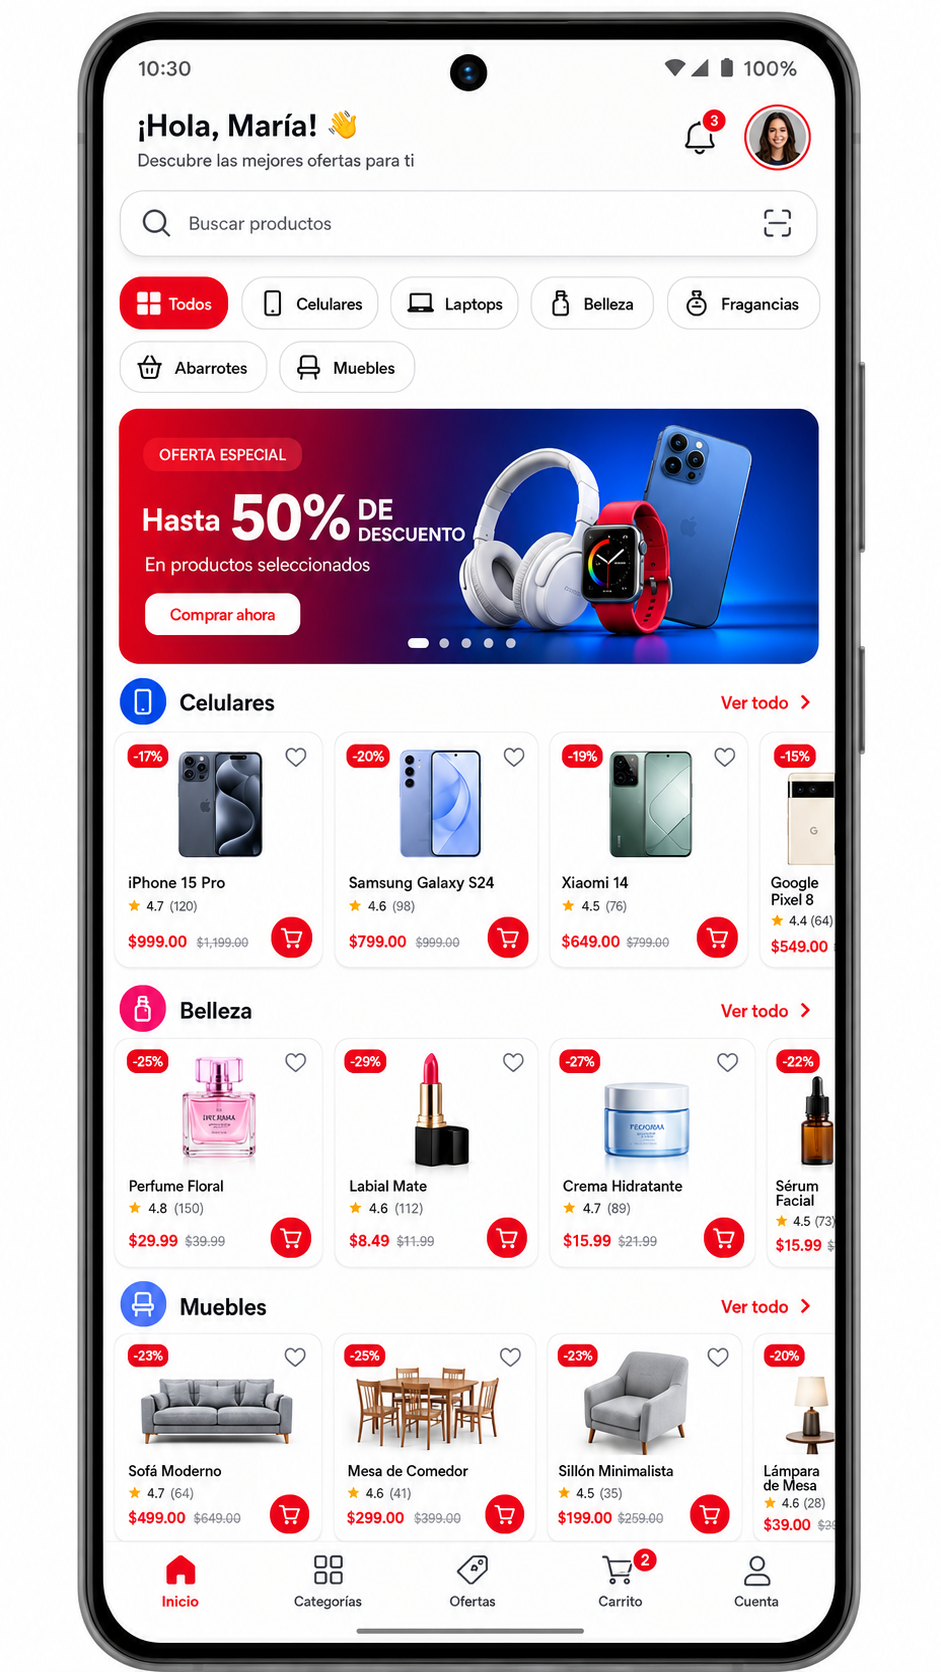
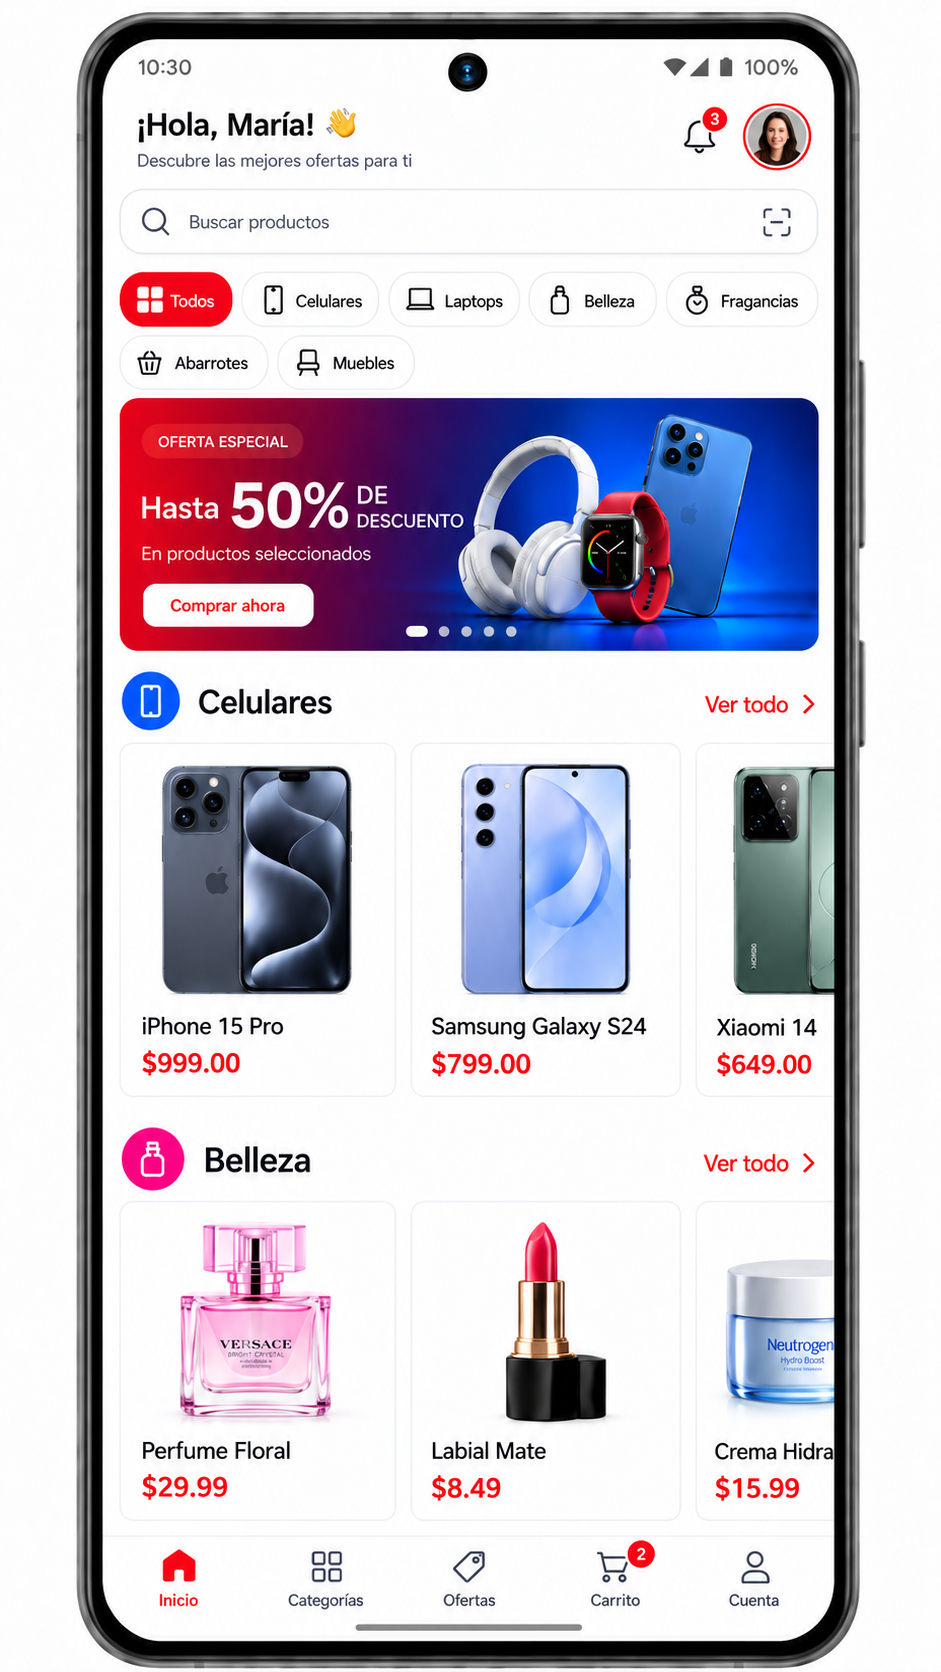
Replace current-home.png

diff --git a/README.md b/README.md
@@ -1,8 +1,12 @@
 # RenE-commerce
 
-RenE-commerce is an Android application developed in Kotlin using Jetpack Compose for the UI layer. The app presents a product catalog fetched from a remote API, caches the response locally with Room, and applies a lightweight cache policy to minimize redundant network calls while improving perceived performance.
+RenE-commerce is an Android application developed in Kotlin using Jetpack Compose for the UI layer.
+The app presents a product catalog fetched from a remote API, caches the response locally with Room,
+and applies a lightweight cache policy to minimize redundant network calls while improving perceived
+performance.
 
-This project is designed to demonstrate a modern Android architecture pattern that balances maintainability, scalability, and production-oriented engineering practices.
+This project is designed to demonstrate a modern Android architecture pattern that balances
+maintainability, scalability, and production-oriented engineering practices.
 
 ## Project Summary
 
@@ -21,10 +25,9 @@ The application follows a layered, modularized architecture built around the fol
 
 ### Current Status
 
-|                        Current Status                        |                         Goal / Final Target Design                         |
-|:------------------------------------------------------------:|:--------------------------------------------------------------------------:|
-| ![Current Home](.github/assets/screenshots/current-home.png) |           ![Goal Home](.github/assets/screenshots/goal-home.png)           |
-
+|                        Current Status                        |                Goal / Final Target Design                |
+|:------------------------------------------------------------:|:--------------------------------------------------------:|
+| ![Current Home](.github/assets/screenshots/current-home.png) | <img src="assets/screenshots/goal-home.png" width="50%"> |
 
 ## Technical Stack
 
@@ -45,43 +48,56 @@ The application follows a layered, modularized architecture built around the fol
 The codebase is organized into clear layers to separate responsibilities:
 
 ### 1. UI Layer
-The UI layer is composed of `@Composable` screens and reusable components such as product cards and catalog sections.
+
+The UI layer is composed of `@Composable` screens and reusable components such as product cards and
+catalog sections.
 
 Relevant files:
+
 - `app/src/main/java/com/reneprojects/app/HomePageActivity.kt`
 - `app/src/main/java/com/reneprojects/feature/products/ui/ProductsPage.kt`
 - `app/src/main/java/com/reneprojects/feature/products/ui/ProductsSection.kt`
 
 ### 2. Presentation Layer
+
 UI state is exposed through a `ProductViewModel` and managed with `StateFlow`.
 
 Relevant files:
+
 - `app/src/main/java/com/reneprojects/feature/products/viewmodel/ProductViewModel.kt`
 - `app/src/main/java/com/reneprojects/feature/products/model/ProductUiState.kt`
 - `app/src/main/java/com/reneprojects/feature/products/model/ProductUiModel.kt`
 
 The ViewModel is responsible for:
+
 - listening to product updates from the interactor
 - triggering the initial loading flow
 - handling refresh and retry actions
 - updating UI state for loading, errors, and empty states
 
 ### 3. Domain / Interactor Layer
-The interactor layer sits between the UI and data access, converting repository data into UI-friendly models.
+
+The interactor layer sits between the UI and data access, converting repository data into
+UI-friendly models.
 
 Relevant files:
+
 - `app/src/main/java/com/reneprojects/feature/products/interactor/GetProductsInteractor.kt`
 - `app/src/main/java/com/reneprojects/feature/products/mapper/ProductUiMapper.kt`
 
 This layer keeps UI components decoupled from persistence and network implementation details.
 
 ### 4. Repository Layer
-The repository handles fetching data from the API and writing it to Room, while exposing flows for observing local product data.
+
+The repository handles fetching data from the API and writing it to Room, while exposing flows for
+observing local product data.
 
 Relevant file:
+
 - `app/src/main/java/com/reneprojects/core/feature/products/repository/ProductRepository.kt`
 
 Key responsibilities:
+
 - validate cache status
 - perform conditional requests using server ETag metadata
 - handle 304 Not Modified responses
@@ -89,48 +105,61 @@ Key responsibilities:
 - keep observable product data available to the UI through Room Flow APIs
 
 ### 5. Remote Data Layer
+
 API communication is implemented with Retrofit and a typed service interface.
 
 Relevant files:
+
 - `app/src/main/java/com/reneprojects/core/feature/products/remote/api/ProductsApiService.kt`
 - `app/src/main/java/com/reneprojects/core/feature/products/remote/dto/ProductDto.kt`
 - `app/src/main/java/com/reneprojects/core/feature/products/remote/dto/ProductsResponseDto.kt`
 
-The app consumes a product endpoint and maps the network response into Room entities through mapper logic.
+The app consumes a product endpoint and maps the network response into Room entities through mapper
+logic.
 
 ### 6. Persistence Layer
+
 Room is used for local storage and caching.
 
 Relevant files:
+
 - `app/src/main/java/com/reneprojects/core/database/RenEcommerceDatabase.kt`
 - `app/src/main/java/com/reneprojects/core/feature/products/local/entity/ProductEntity.kt`
 - `app/src/main/java/com/reneprojects/core/feature/products/local/dao/ProductDao.kt`
 
 Data design:
+
 - `products` table stores product metadata and values needed for the catalog UI
 - `ProductDao` includes flow-based read operations and transactional replacement operations
 - database schema is generated with Room and stored under the app `schemas` directory
 
 ### 7. Cache Management
-A custom cache manager provides TTL-based freshness checks and stores metadata such as expiration timestamps and ETags.
+
+A custom cache manager provides TTL-based freshness checks and stores metadata such as expiration
+timestamps and ETags.
 
 Relevant files:
+
 - `app/src/main/java/com/reneprojects/core/common/cachemanager/manager/CacheManager.kt`
 - `app/src/main/java/com/reneprojects/core/common/cachemanager/dao/CacheMetadataDao.kt`
 - `app/src/main/java/com/reneprojects/core/common/cachemanager/entity/CacheMetaDataEntity.kt`
 - `app/src/main/java/com/reneprojects/core/common/cachemanager/model/CacheStatus.kt`
 
-This allows the app to avoid unnecessary fetches while still being able to refresh data when the cache expires or when the user explicitly requests a refresh.
+This allows the app to avoid unnecessary fetches while still being able to refresh data when the
+cache expires or when the user explicitly requests a refresh.
 
 ## Dependency Injection
 
-Hilt is used to provide application-scoped dependencies for the network layer, database, repository, mapper, and interactor modules.
+Hilt is used to provide application-scoped dependencies for the network layer, database, repository,
+mapper, and interactor modules.
 
 Relevant files:
+
 - `app/src/main/java/com/reneprojects/core/di/NetworkModule.kt`
 - `app/src/main/java/com/reneprojects/core/di/DatabaseModule.kt`
 
-This approach reduces manual wiring, keeps the architecture modular, and makes the app easier to extend with additional features.
+This approach reduces manual wiring, keeps the architecture modular, and makes the app easier to
+extend with additional features.
 
 ## UI Behavior
 
@@ -149,7 +178,8 @@ Several production-oriented implementation decisions are included in this projec
 - Room-backed caching reduces repeated network usage
 - Flow-based observation keeps the UI synchronized with local data changes
 - ETag-aware API requests reduce unnecessary payload transfer
-- Local data is preserved when network requests fail, preventing a blank UI if cached content already exists
+- Local data is preserved when network requests fail, preventing a blank UI if cached content
+  already exists
 - UI loading state is derived from actual data availability rather than fixed placeholders
 
 ## Project Structure
@@ -209,14 +239,17 @@ The project uses standard Android engineering practices, including:
 ## Development Roadmap / Pending Tasks
 
 ### 🟢 Completed
+
 - [x] Initial project setup and base architecture.
 - [x] E-commerce home/catalog initial implementation.
 
 ### 🟡 In Progress / Next Sprint
+
 - [ ] Splash landing page.
 - [ ] Product Details feature.
 
 ### 🔴 Pending / To-Do
+
 - [ ] User authentication feature (Login / Register).
 - [ ] Cart feature.
 - [ ] Order flow feature.
